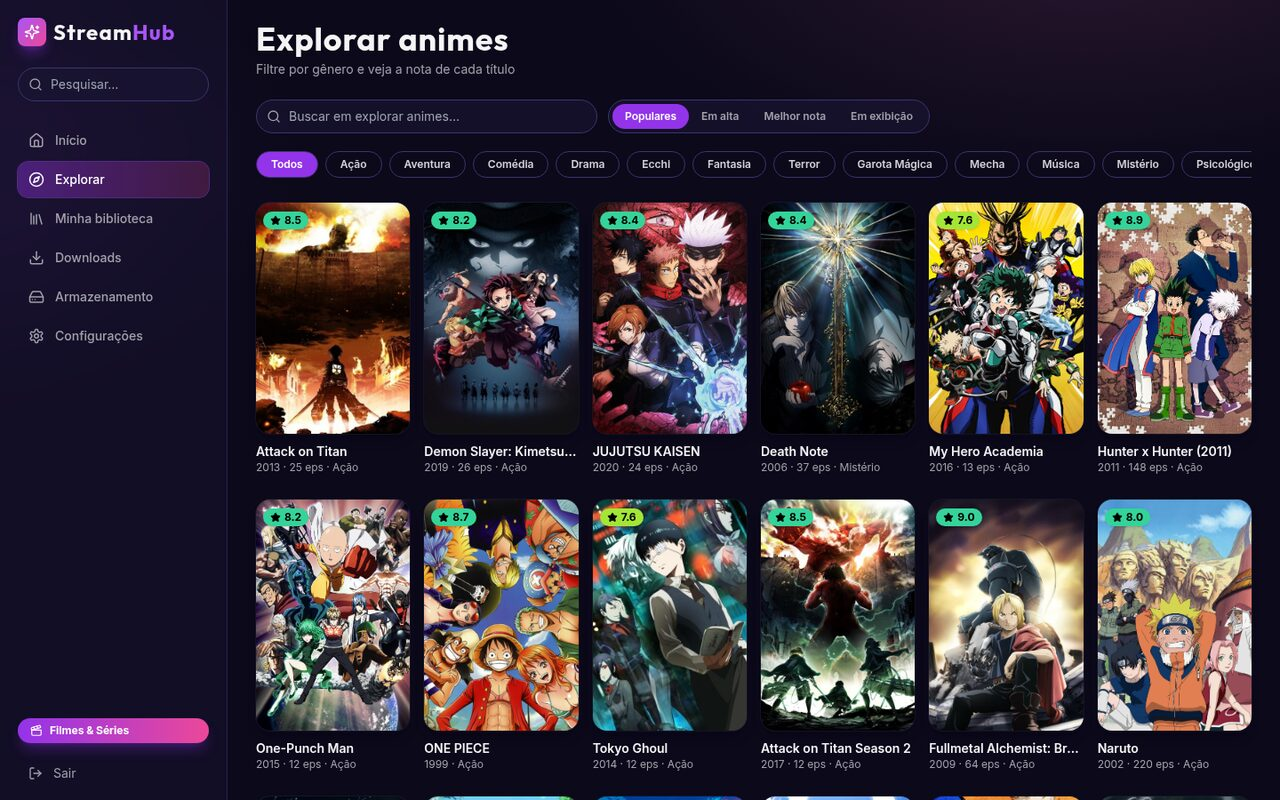
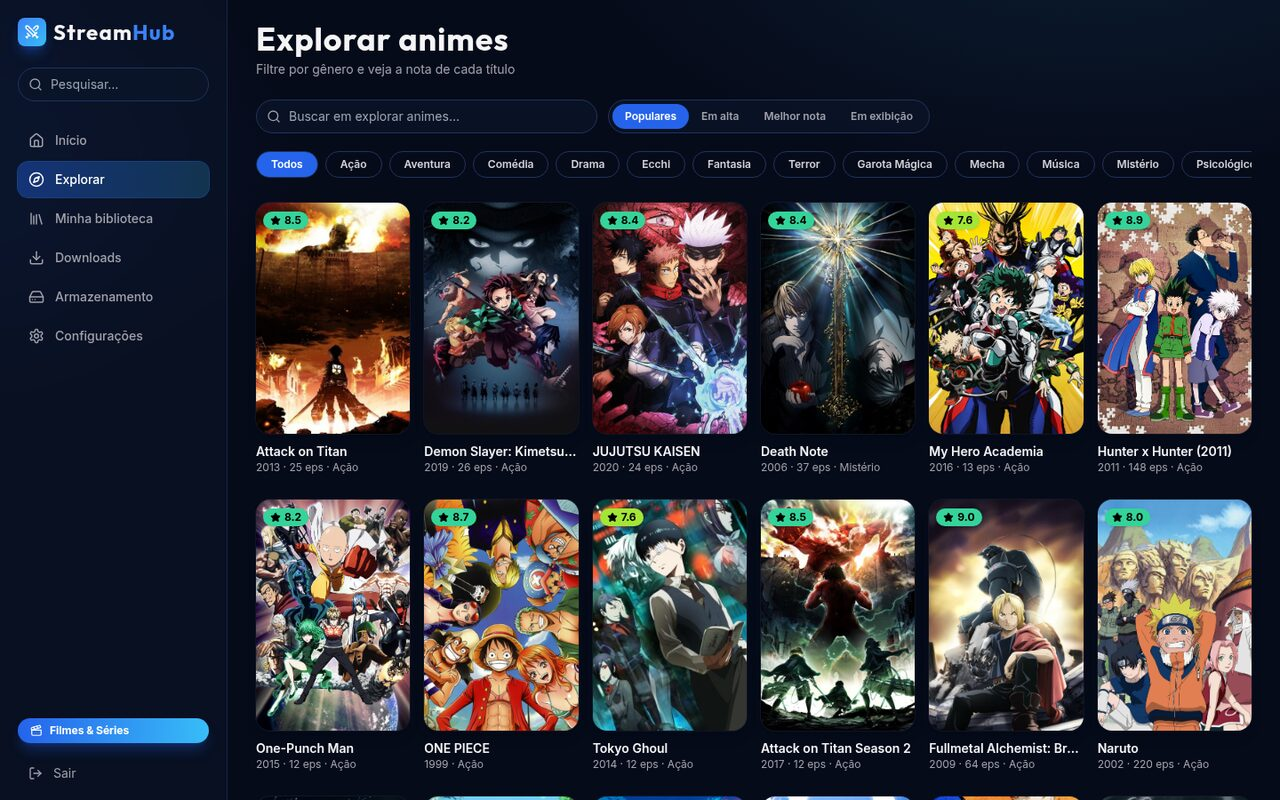
Atualiza o README e as capturas de tela
- Documenta o seletor de episódios, os temas de Filmes & Séries e Animes e a seção de velocidade
- Inclui a rota de arquivos do download e novas entradas de solução de problemas
- Atualiza as capturas com o visual azul do modo anime

diff --git a/README.md b/README.md
@@ -23,6 +23,7 @@ Aplicação web para **pesquisar, baixar, organizar e assistir filmes, séries e
 ## Recursos
 
 **Catálogo**
+- Dois visuais próprios: **Filmes & Séries** (preto e vermelho, barra superior) e **Animes** (azul-marinho, menu lateral). Um botão alterna entre eles.
 - Filmes e séries pelo **TMDB**; animes pelo **AniList**.
 - Capas, sinopse, **nota**, **gêneros**, ano, formato, estúdio, temporadas e episódios.
 - Filmes e séries mostram **diretores (ou criadores) e elenco principal** com foto.
@@ -32,9 +33,11 @@ Aplicação web para **pesquisar, baixar, organizar e assistir filmes, séries e
 - Adicionar, ativar/desativar, testar e remover indexadores pela interface.
 - Resultados com resolução, tamanho, seeders, indexador, fonte, codec e idioma inferido do nome.
 - Filtros de resolução, áudio, legenda **PT-BR** e **temporada/episódio** (reconhece `S01`, `Season 1`, `Temporada 1`, pacotes `S01-S04`).
+- Seeders coloridos (verde, amarelo, vermelho) para escolher releases mais rápidos.
 
 **Downloads** (via **qBittorrent**)
 - Escolha do disco e da pasta de destino **a cada download**, com espaço livre e bloqueio por falta de espaço.
+- **Seletor de episódios**: em pacotes de temporada, o download pausa assim que a lista de arquivos chega e você marca só o que quer baixar (também disponível depois, pelo botão **Episódios**).
 - Progresso em tempo real (SSE), velocidade, tempo estimado, pausar, retomar, cancelar e apagar arquivos.
 
 **Armazenamento**
@@ -42,7 +45,7 @@ Aplicação web para **pesquisar, baixar, organizar e assistir filmes, séries e
 - Teste de gravação, aviso de pouco espaço e proteção contra *path traversal* e symlinks.
 
 **Biblioteca e player próprio**
-- Grade de pôsteres com nota, gêneros e progresso por episódio; "Continuar assistindo".
+- Grade de pôsteres com nota, gêneros e progresso por episódio; painel de detalhes por título; "Continuar assistindo".
 - Player com **troca de faixa de áudio**, **legendas** (PT-BR escolhida automaticamente quando existe), velocidade, tela cheia, atalhos de teclado e **próximo episódio**.
 - **Conversão no servidor (ffmpeg)** para formatos que o navegador não toca.
 - Exclusão de arquivos pela biblioteca.
@@ -141,11 +144,21 @@ As credenciais das integrações também podem ser editadas em **Configurações
 - **Outro HD:** monte-o em todos os serviços no `docker-compose.yml` (ex.: `/mnt/HD1:/hd1`), inclua `/hd1` em `STORAGE_ALLOWED_ROOTS` e registre a pasta em **Armazenamento**.
 - **Windows:** aponte `MEDIA_ROOT` para algo como `D:/Midia`; discos extras entram como volumes adicionais.
 
+## Velocidade dos downloads
+
+A velocidade depende principalmente dos **seeders** do release. Para baixar mais rápido:
+
+1. Escolha releases com mais seeders (a coluna fica verde a partir de 20).
+2. **Abra a porta `6881` (TCP e UDP) no roteador** apontando para o computador que roda o Docker; o compose já a expõe e o qBittorrent escuta nela.
+3. Indexadores privados costumam ter swarms bem maiores que os públicos.
+
+O qBittorrent do compose vem sem limite de velocidade, com DHT/PEX/LSD ativos e conexões ampliadas (`2000` no total, `300` por torrent).
+
 ## Fluxo de uso
 
 1. **Catálogo** (TMDB/AniList) → página do título, com nota, gêneros, elenco e temporadas.
 2. **Buscar downloads** consulta o Prowlarr; filtre por resolução, áudio, legenda PT-BR e temporada.
-3. **Baixar** → escolha o local e a subpasta; o backend valida o espaço e envia ao qBittorrent com o `savepath`.
+3. **Baixar** → escolha o local e a subpasta; o backend valida o espaço e envia ao qBittorrent com o `savepath`. Em pacotes, deixe marcada a opção **Escolher quais episódios baixar** e selecione os arquivos na página **Downloads**.
 4. **Downloads** acompanha o progresso em tempo real. Ao concluir, o Jellyfin é atualizado e, se habilitado, o Sonarr/Radarr importam copiando o arquivo (o original no destino escolhido é preservado).
 5. **Minha biblioteca** lista os arquivos; clique em um episódio para assistir no player próprio.
 
@@ -162,6 +175,7 @@ Autenticação HTTP Basic. Principais grupos de rotas:
 | `GET/POST /api/indexers` | gerenciamento de indexadores |
 | `GET/POST /api/storage/...` | raízes, pastas registradas, teste e padrão |
 | `POST /api/downloads` · `GET /api/downloads/stream` | iniciar download · progresso (SSE) |
+| `GET/POST /api/downloads/{id}/files` | listar arquivos do torrent e escolher quais baixar |
 | `GET /api/library` · `POST /api/library/delete` | arquivos e exclusão |
 | `GET /api/library/stream/{id}[/transcode\|/subtitle/{n}]` | reprodução com token assinado |
 
@@ -188,12 +202,14 @@ O frontend em desenvolvimento encaminha `/api` para `http://localhost:8080` (var
 | Erro 400 ao adicionar indexador | o site do indexador pode estar fora do ar ou exigir login; a mensagem do Prowlarr é exibida |
 | qBittorrent "usuário ou senha inválidos" | ajuste `QBIT_USER`/`QBIT_PASSWORD` ou edite em Configurações |
 | Sem permissão de gravação | confira `PUID`/`PGID` e o dono das pastas `media/` e `data/` |
+| Download lento | poucos seeders no release; veja [Velocidade dos downloads](#velocidade-dos-downloads) |
 | Vídeo sem som ou não toca | áudio/vídeo incompatível: o player converte no servidor; se persistir, use o Jellyfin |
 
 ## Limitações conhecidas
 
 - O idioma exibido nos resultados é **inferido do nome** do release e não é garantido; as faixas reais aparecem no player.
 - Legendas em formato de imagem não são suportadas no player.
+- Pacotes que vêm como **um único arquivo** (temporada inteira em um MKV) não podem ser divididos pelo seletor de episódios.
 - Autenticação com um único administrador.
 - O progresso de reprodução fica salvo no navegador.
 - Elenco e diretores vêm do TMDB; animes não exibem elenco.
